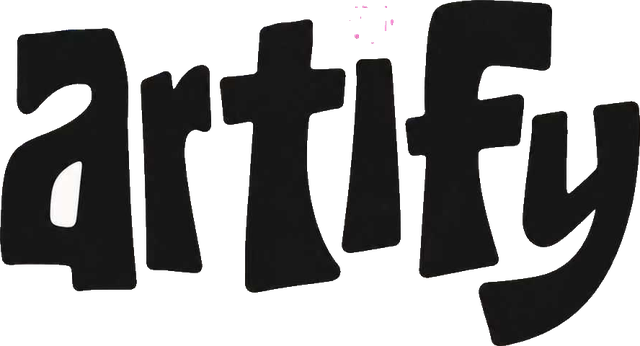
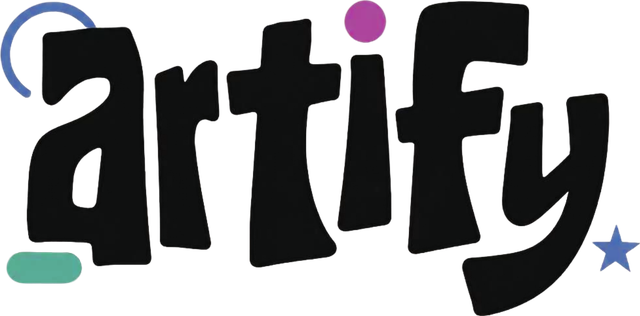
Use official brand lockup, add ShiBao (artwork recognition) feature, trim FAQ copy

diff --git a/index.html b/index.html
@@ -172,7 +172,37 @@
         </div>
       </article>
 
-      <article class="feature feature--reverse reveal" id="handbook">
+      <article class="feature feature--reverse reveal">
+        <div class="feature__copy">
+          <p class="overline overline--swatch" style="--sec: var(--yellow)">识宝</p>
+          <h3>拍一下，就知道这是什么</h3>
+          <ul class="ticks">
+            <li><svg class="icon tick__icon" viewBox="0 0 24 24" width="24" height="24" fill="none" stroke="currentColor" stroke-width="2" stroke-linecap="round" stroke-linejoin="round" aria-hidden="true" focusable="false"><path d="M5 13l4 4 10-10"/></svg>拍展品，认出类别、材质、年代</li>
+            <li><svg class="icon tick__icon" viewBox="0 0 24 24" width="24" height="24" fill="none" stroke="currentColor" stroke-width="2" stroke-linecap="round" stroke-linejoin="round" aria-hidden="true" focusable="false"><path d="M5 13l4 4 10-10"/></svg>再告诉你「怎么看」，以及一句现场能用的话</li>
+            <li><svg class="icon tick__icon" viewBox="0 0 24 24" width="24" height="24" fill="none" stroke="currentColor" stroke-width="2" stroke-linecap="round" stroke-linejoin="round" aria-hidden="true" focusable="false"><path d="M5 13l4 4 10-10"/></svg>不硬认作者：无名作品、文物也照样讲得清</li>
+          </ul>
+        </div>
+        <div class="feature__media">
+          <div class="scan" role="img" aria-label="识宝识别示例">
+            <div class="scan__shot">
+              <span class="scan__subject" aria-hidden="true"></span>
+              <span class="scan__hint">对准展品</span>
+              <span class="scan__corner scan__corner--tl" aria-hidden="true"></span>
+              <span class="scan__corner scan__corner--tr" aria-hidden="true"></span>
+              <span class="scan__corner scan__corner--bl" aria-hidden="true"></span>
+              <span class="scan__corner scan__corner--br" aria-hidden="true"></span>
+              <span class="scan__badge">识宝</span>
+            </div>
+            <div class="scan__result">
+              <p class="scan__name">唐三彩马</p>
+              <p class="scan__tags"><span>陶瓷</span><span>三彩釉陶</span><span>唐</span></p>
+              <p class="scan__say">它的釉色是往下淌的——唐代人故意让颜色流动起来。</p>
+            </div>
+          </div>
+        </div>
+      </article>
+
+      <article class="feature reveal" id="handbook">
         <div class="feature__copy">
           <p class="overline overline--swatch" style="--sec: var(--pink)">手册 · 台词本</p>
           <h3>把好用的说法，收进自己的本子</h3>
@@ -187,7 +217,7 @@
         </div>
       </article>
 
-      <article class="feature reveal">
+      <article class="feature feature--reverse reveal">
         <div class="feature__copy">
           <p class="overline overline--swatch" style="--sec: var(--purple)">文艺助手</p>
           <h3>卡住的时候，先问一句</h3>
@@ -254,7 +284,7 @@
         <details class="faq__item reveal"><summary>要收费吗？</summary><p>目前免费。</p></details>
         <details class="faq__item reveal" style="--d:.05s"><summary>怎么安装？</summary><p>点「下载安卓版」，下载完成后按提示允许「安装未知应用」，即可安装。安卓 7.0 及以上。</p></details>
         <details class="faq__item reveal" style="--d:.1s"><summary>会收集我的数据吗？</summary><p>学习进度、台词本和偏好都保存在你手机本地；只有评论、内容更新这类功能需要联网。</p></details>
-        <details class="faq__item reveal" style="--d:.15s"><summary>怎么更新到新版本？</summary><p>App 里可以检查更新，也可以回这个页面重新下载。内容更新走云端，不用重新安装。</p></details>
+        <details class="faq__item reveal" style="--d:.15s"><summary>怎么更新到新版本？</summary><p>App 里可以检查更新，也可以回这个页面重新下载。</p></details>
         <details class="faq__item reveal" style="--d:.2s"><summary>不用应用商店安全吗？</summary><p>安装包由我们的官网直接提供。如果对来源有疑虑，可以先在备用机上试装。</p></details>
         <details class="faq__item reveal" style="--d:.25s"><summary>有 iOS 版吗？</summary><p>有。iOS 版已经完成，正在上架 App Store。开放下载后会在本页公布。</p></details>
       </div>

diff --git a/styles.css b/styles.css
@@ -364,6 +364,64 @@ html.js .hero__title .char { display: inline-block; opacity: 0; transform: trans
 .bubble--user { background: var(--purple); color: var(--paper); border-bottom-right-radius: 4px; }
 .bubble--bot { background: var(--aqua); color: var(--ink); border-bottom-left-radius: 4px; }
 
+/* ---- 识宝：取景框 + 识别结果 ---- */
+.scan {
+  width: min(100%, 420px);
+  display: grid; gap: 0;
+  background: var(--paper);
+  border: 2px solid var(--ink);
+  border-radius: var(--radius-card);
+  box-shadow: var(--shadow-lg);
+  overflow: hidden;
+}
+.scan__shot {
+  position: relative;
+  aspect-ratio: 4 / 3;
+  display: grid; place-items: center;
+  background: var(--paper-2);
+  border-bottom: 2px solid var(--ink);
+}
+/* 取景框四角 */
+.scan__corner { position: absolute; width: 22px; height: 22px; border: 3px solid var(--ink); }
+.scan__corner--tl { top: 12px; left: 12px; border-right: 0; border-bottom: 0; border-radius: 6px 0 0 0; }
+.scan__corner--tr { top: 12px; right: 12px; border-left: 0; border-bottom: 0; border-radius: 0 6px 0 0; }
+.scan__corner--bl { bottom: 12px; left: 12px; border-right: 0; border-top: 0; border-radius: 0 0 0 6px; }
+.scan__corner--br { bottom: 12px; right: 12px; border-left: 0; border-top: 0; border-radius: 0 0 6px 0; }
+/* 取景框里的展品剪影 */
+.scan__subject {
+  width: 38%;
+  aspect-ratio: 1 / 1.18;
+  background: var(--lilac);
+  border: 2px solid var(--ink);
+  border-radius: 46% 46% 40% 40% / 32% 32% 58% 58%;
+}
+.scan__hint {
+  position: absolute; bottom: 14px;
+  font-size: var(--fs-caption); letter-spacing: .12em; color: var(--muted);
+}
+.scan__badge {
+  position: absolute; top: 12px; left: 50%; transform: translateX(-50%);
+  padding: 4px 12px;
+  background: var(--lime);
+  border: 2px solid var(--ink); border-radius: var(--radius-tag);
+  font-size: 12px; font-weight: 700;
+}
+.scan__result { padding: 20px; }
+.scan__name { font-size: 22px; font-weight: 800; }
+.scan__tags { display: flex; flex-wrap: wrap; gap: 8px; margin-top: 12px; }
+.scan__tags span {
+  padding: 3px 10px;
+  background: var(--paper-2);
+  border: 2px solid var(--ink); border-radius: var(--radius-tag);
+  font-size: 12px; font-weight: 700;
+}
+.scan__say {
+  margin-top: 14px;
+  padding-left: 14px;
+  border-left: 3px solid var(--yellow);
+  font-size: 15px; line-height: 1.7; color: var(--ink-2);
+}
+
 /* ---- 关键词跑马灯 ---- */
 .marquee { overflow: hidden; background: var(--paper-2); border-block: 2px solid var(--ink); }
 .marquee__track {

diff --git a/tools/build-assets.py b/tools/build-assets.py
@@ -50,7 +50,9 @@ def build_screenshots() -> None:
 
 
 def build_wordmark() -> None:
-    im = Image.open(os.path.join(APP_RES, "artify_logo_transparent.png")).convert("RGBA")
+    # 用官方完整品牌标（字标 + 蓝弧/紫点/青胶囊/蓝星）。
+    # artify_logo_transparent.png 是旧版，边缘有抠图残留，不要用。
+    im = Image.open(os.path.join(APP_RES, "artify_logo_vector.png")).convert("RGBA")
     im = im.crop(im.split()[3].getbbox())  # 裁掉透明边
     width = 640
     im = im.resize((width, round(im.height * width / im.width)), Image.LANCZOS)
